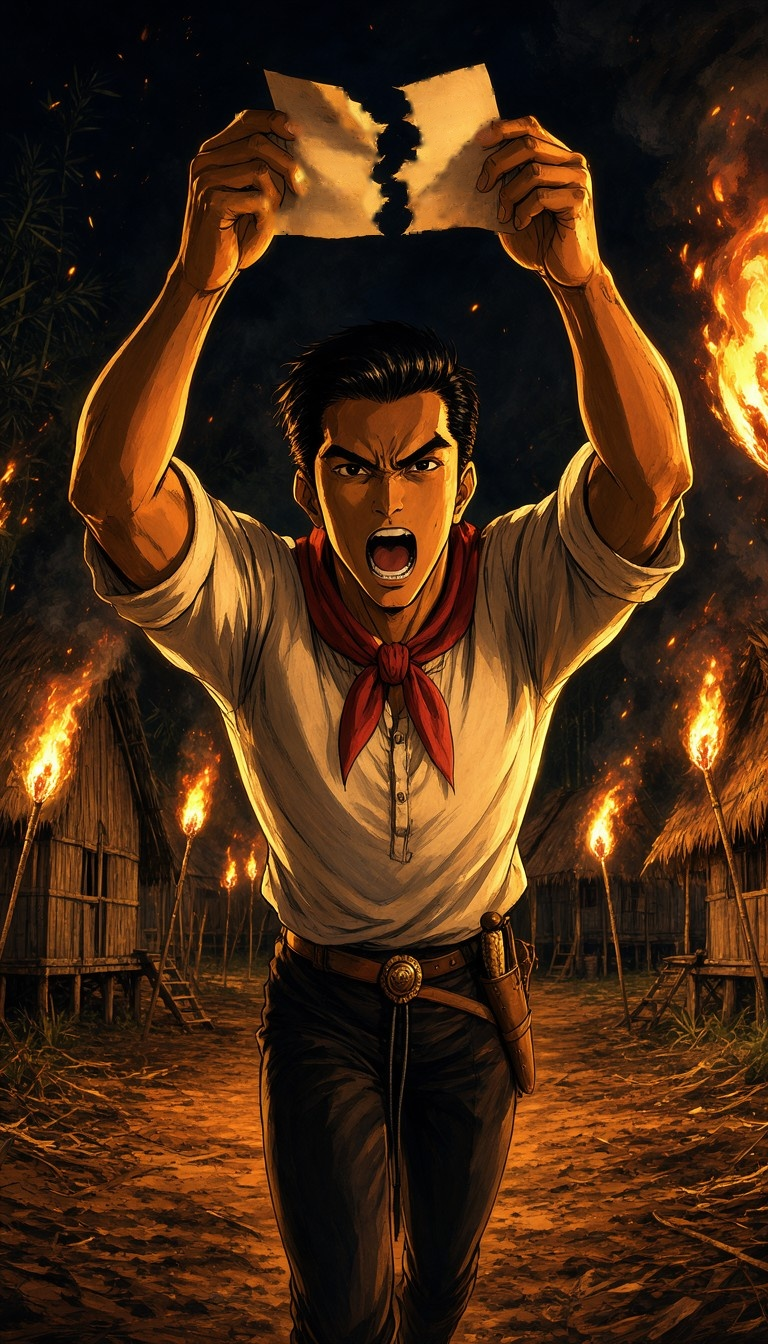
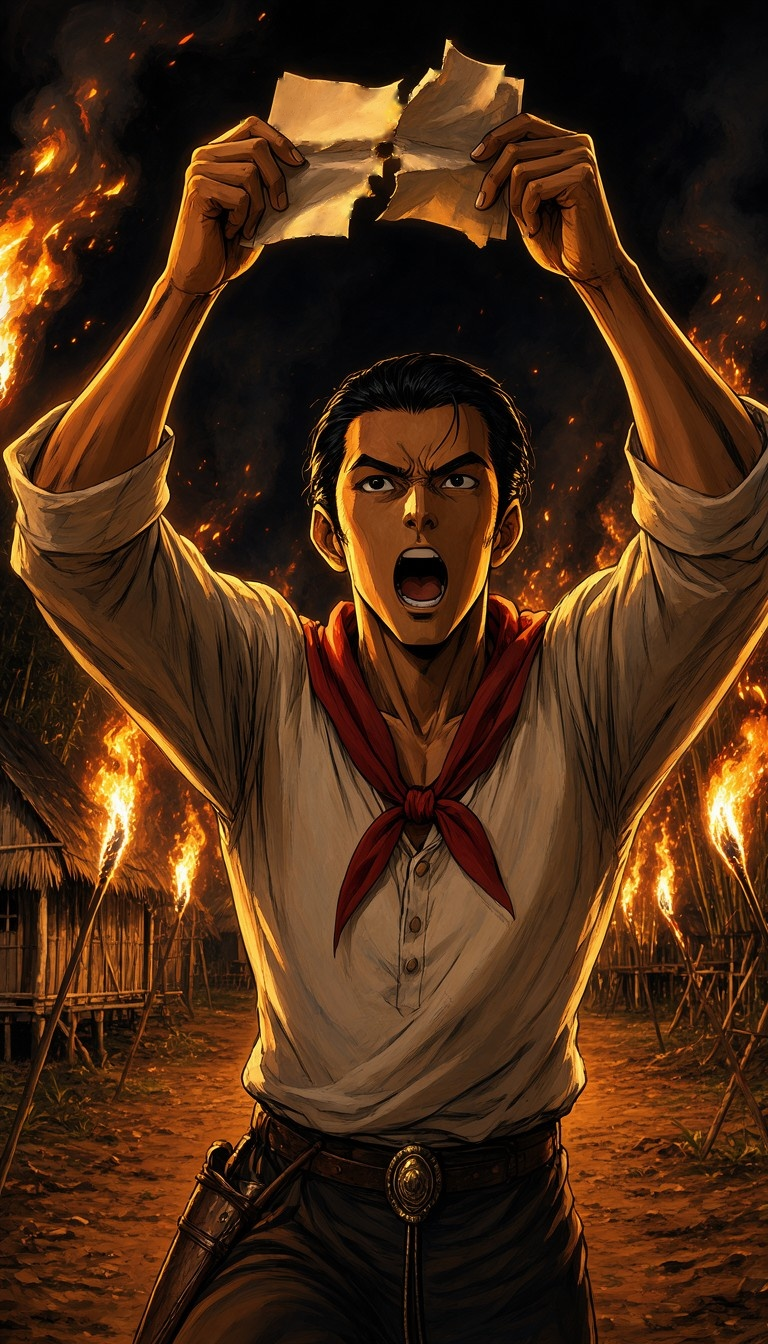
Saved from the central machine's background jobs: 7 file(s) (work in progress where it is code; the jobs commit their finished state themselves)
Claude-Session: https://claude.ai/code/session_014Q6YnqVXSvDjkyNQx2en9E

diff --git a/history-indio/story/ep01_v2/shots.md b/history-indio/story/ep01_v2/shots.md
@@ -9,7 +9,7 @@ the same still. Writing in pictures is added in code (see `key_prompts.json` "_n
 | # | Sent. | What we see | Still |
 |---|---|---|---|
 | 1 | 0 | Hook: the bolo blade level before Indio's chin, torchlight, his eyes wide | bk_01 |
-| 2 | 1 | Hook: a Katipunero tearing a small paper (kept, version 1) | old_k24 |
+| 2 | 1 | Hook: a Katipunero tearing a small paper at night | bk_02 |
 | 3 | 2-3 | Hook: the black dog leaping out of gold light (kept, version 1) | old_k18 |
 | 4 | 4-5 | QC morning: Indio in the long queue along a pale wall, folder to his chest | bk_04 |
 | 5 | 6 | Over the shoulder: Indio slides his folder through the glass slot | bk_05 |
@@ -56,7 +56,7 @@ the same still. Writing in pictures is added in code (see `key_prompts.json` "_n
 | 46 | 84-85 | The pawnshop at night: the helper lifts the wax to the bulb, a nail between his teeth | bk_38 |
 | 47 | 86 | His marked arm on a wet railing; the question in code | bk_39 |
 
-47 shots, 47 stills: 42 drawn new, 5 kept from version 1 (old_k24, old_k18, old_k12, old_k14, old_k16). The trivia
+47 shots, 47 stills: 43 drawn new, 4 kept from version 1 (old_k18, old_k12, old_k14, old_k16). The trivia
 ("Patalastas ni Usman") follows the last line as its own clip with the chibi sprites and the sticker `trivia/stickers/ep01.png`.
 Notes for the picture machine: the pawnbroker's face is never shown; the helper's right hand is rust-brown; the villains'
 sign is three slanted strokes (never a triangle); the woman of shot 45 is a Filipina of about fifty in a plain dress (not

diff --git a/history-indio/videos/ep01v2-ang-unang-talon/shots.md b/history-indio/videos/ep01v2-ang-unang-talon/shots.md
@@ -9,7 +9,7 @@ the same still. Writing in pictures is added in code (see `key_prompts.json` "_n
 | # | Sent. | What we see | Still |
 |---|---|---|---|
 | 1 | 0 | Hook: the bolo blade level before Indio's chin, torchlight, his eyes wide | bk_01 |
-| 2 | 1 | Hook: a Katipunero tearing a small paper (kept, version 1) | old_k24 |
+| 2 | 1 | Hook: a Katipunero tearing a small paper at night | bk_02 |
 | 3 | 2-3 | Hook: the black dog leaping out of gold light (kept, version 1) | old_k18 |
 | 4 | 4-5 | QC morning: Indio in the long queue along a pale wall, folder to his chest | bk_04 |
 | 5 | 6 | Over the shoulder: Indio slides his folder through the glass slot | bk_05 |
@@ -56,7 +56,7 @@ the same still. Writing in pictures is added in code (see `key_prompts.json` "_n
 | 46 | 84-85 | The pawnshop at night: the helper lifts the wax to the bulb, a nail between his teeth | bk_38 |
 | 47 | 86 | His marked arm on a wet railing; the question in code | bk_39 |
 
-47 shots, 47 stills: 42 drawn new, 5 kept from version 1 (old_k24, old_k18, old_k12, old_k14, old_k16). The trivia
+47 shots, 47 stills: 43 drawn new, 4 kept from version 1 (old_k18, old_k12, old_k14, old_k16). The trivia
 ("Patalastas ni Usman") follows the last line as its own clip with the chibi sprites and the sticker `trivia/stickers/ep01.png`.
 Notes for the picture machine: the pawnbroker's face is never shown; the helper's right hand is rust-brown; the villains'
 sign is three slanted strokes (never a triangle); the woman of shot 45 is a Filipina of about fifty in a plain dress (not
